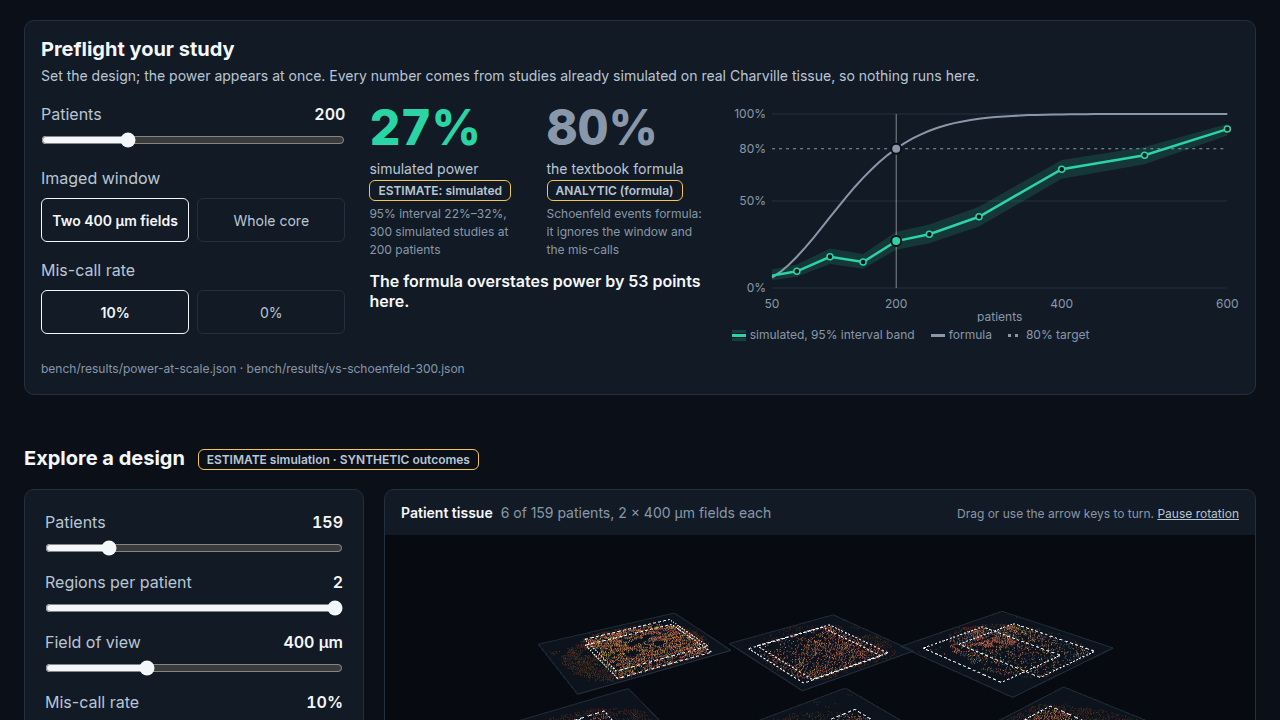
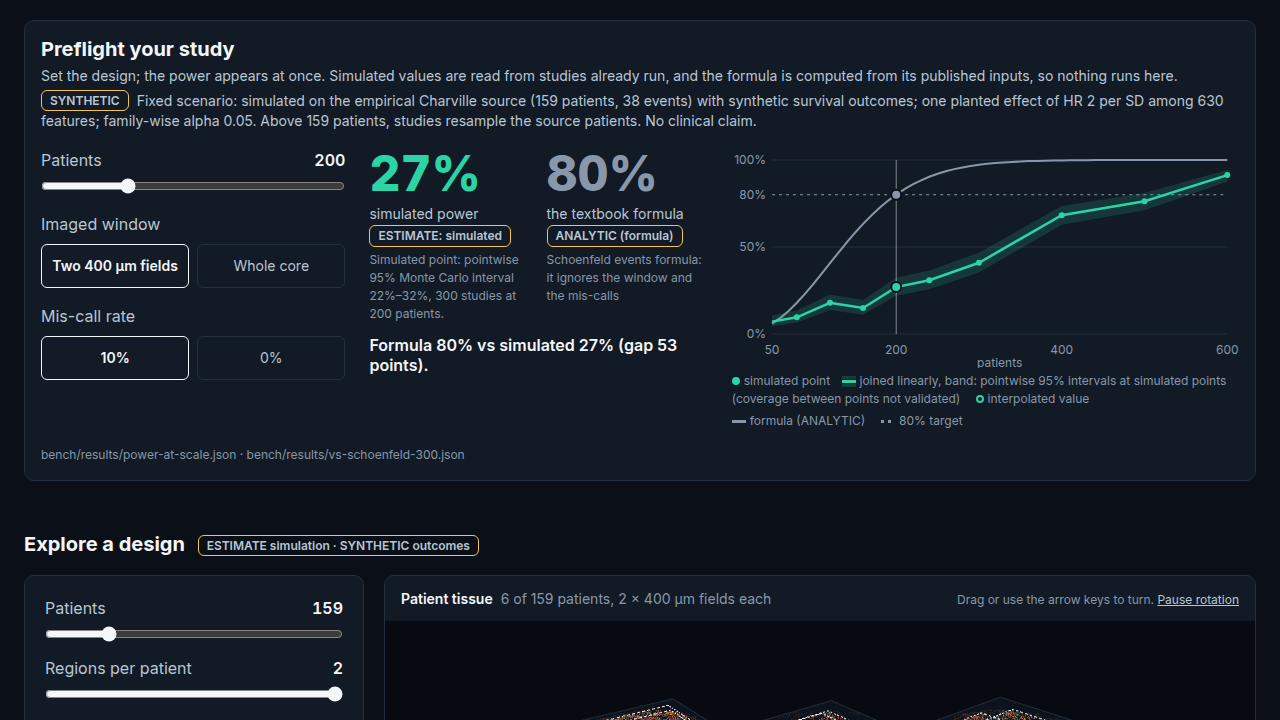
demo: preflight stills and README for the scenario, caveat and strict collector
Reshot at 1280x720 and 390 wide; adds the control design at 80 patients with its false-alarm caveat.

diff --git a/demo/README.md b/demo/README.md
@@ -200,15 +200,22 @@ shows `km.label` ("exploratory, cutoff chosen on the same cohort, no p-value") b
 region's counts. `check_data.py` refuses a file without `exploratory: true`, with a p-value, or without "no
 p-value" in its label. The hit cannot be tested in our second cohort (UPMC has no PD1 stain), and the page says so; it never says "not replicated".
 
-## `data/preflight.json` (`preflight-panel/1`): "Preflight your study", built by `collect_preflight.py`
+## `data/preflight.json` (`preflight-panel/2`): "Preflight your study", built by `collect_preflight.py`
 
 Built only from `bench/results/power-at-scale.json` (two 400 µm fields, 10% mis-called, 40 to 1,000 patients) and
 `bench/results/vs-schoenfeld-300.json` (the whole-core, no-mis-call control from 40 to 300 patients, plus the
-Schoenfeld inputs); each source's sha256 is recorded. The formula is evaluated at every slider stop (50 to 600 in 10s)
-and must reproduce that file's own `analytic_power` at its 7 points. The page (`preflight.js`) shows a simulated point as
-stored, with its file's label; between two points it draws a straight line and labels the value
-`ESTIMATE (interpolated)`; outside a design's range, or for a window and mis-call pair that was never simulated, it
-shows `NOT SIMULATED` and no number. `make smoke` runs `collect_preflight.py --check` and `preflight.test.mjs`.
+Schoenfeld inputs); each source's sha256 is recorded, with the fixed scenario (cohort, source patients and events, HR
+per SD, features, alpha, null-study count, method, resampling) and each point's power and false-alarm rate with their
+intervals. The collector refuses, rather than writes, a source whose design is not exactly the one the panel offers,
+whose cohort, HR, alpha or simulation model differs between the two files, or whose series is empty, unordered, has a
+non-finite rate, a value outside its interval or a non-positive study count (`tests/test_collect_preflight.py`). The
+formula is evaluated at every slider stop (50 to 600 in 10s) and must reproduce that file's own `analytic_power` at its
+7 points. The page (`preflight.js`) shows a simulated point as stored, with its file's label and its pointwise 95% Monte
+Carlo interval; between two points it joins value and bounds linearly and labels the value `ESTIMATE (interpolated)`,
+which is not a validated 95% interval; outside a design's range, or for a window and mis-call pair that was never
+simulated, it shows `NOT SIMULATED` and no number. A design with a point whose false-alarm interval lies above alpha
+carries that caveat whenever it is chosen. `make smoke` and the Pages workflow run `collect_preflight.py --check`;
+`make smoke` also runs `preflight.test.mjs`.
 
 ## How the page picks a grid point
 
